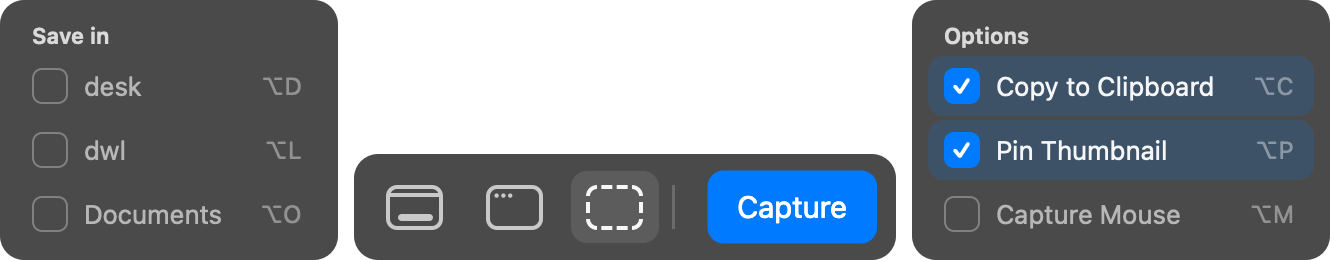
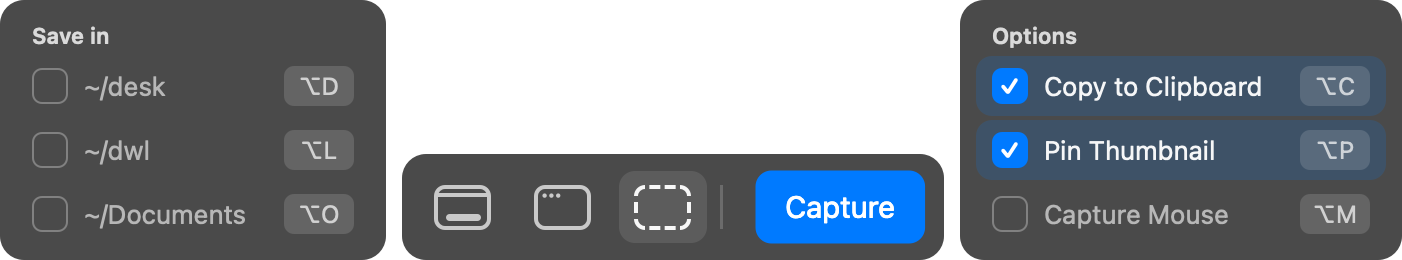
screenshot: folders by full path, shortcuts on light key caps
Save in lists each folder by its path from home (~/desk) instead of its
name, and every ⌥ shortcut sits on a small light cap of one width so
they line up.

diff --git a/screenshot/Sources/Screenshot/Bar.swift b/screenshot/Sources/Screenshot/Bar.swift
@@ -283,7 +283,7 @@ final class Section: NSPanel {
     static func saveIn() -> Section {
         Section("Save in", growsLeft: true) {
             zip(["D", "L", "O"], Settings.standardFolders).map { key, f in
-                Item(key: key, title: f.0, on: Settings.folders.contains { $0.path == f.1.path }) { Settings.toggle(folder: f.1) }
+                Item(key: key, title: (f.1.path as NSString).abbreviatingWithTildeInPath, on: Settings.folders.contains { $0.path == f.1.path }) { Settings.toggle(folder: f.1) }
             }
         }
     }
@@ -418,13 +418,14 @@ private final class StripKey: NSView {
     private static let keyFont = NSFont.systemFont(ofSize: 12)
     private static let tick = NSFont.systemFont(ofSize: 11, weight: .bold)
     private var chord: String { "⌥" + item.key }
+    /// One width for every cap, the widest letter's, so they line up.
+    private static let capWidth = ceil(("⌥M" as NSString).size(withAttributes: [.font: keyFont]).width) + 12
 
     init(_ item: Section.Item, flip: @escaping () -> Void) {
         self.item = item
         self.flip = flip
         let text = (item.title as NSString).size(withAttributes: [.font: StripKey.font]).width
-        let key = ("⌥" + item.key as NSString).size(withAttributes: [.font: StripKey.keyFont]).width
-        super.init(frame: CGRect(x: 0, y: 0, width: 34 + ceil(text) + 18 + ceil(key) + 10, height: 30))
+        super.init(frame: CGRect(x: 0, y: 0, width: 34 + ceil(text) + 18 + StripKey.capWidth + 8, height: 30))
     }
     required init?(coder: NSCoder) { nil }
     override func acceptsFirstMouse(for event: NSEvent?) -> Bool { true }
@@ -454,8 +455,13 @@ private final class StripKey: NSView {
         if on { put("✓", [.font: StripKey.tick, .foregroundColor: NSColor.white], in: box) }
         put(item.title, [.font: StripKey.font,
                          .foregroundColor: NSColor.labelColor.withAlphaComponent(on ? 0.95 : 0.6)], x: 34, in: bounds)
-        put(chord, [.font: StripKey.keyFont, .foregroundColor: NSColor.labelColor.withAlphaComponent(0.4)],
-            right: bounds.maxX - 10, in: bounds)
+        // The shortcut on a small light key cap.
+        let attrs: [NSAttributedString.Key: Any] = [.font: StripKey.keyFont, .foregroundColor: NSColor.labelColor.withAlphaComponent(0.7)]
+        let w = StripKey.capWidth
+        let cap = CGRect(x: bounds.maxX - 8 - w, y: (bounds.height - 20) / 2, width: w, height: 20)
+        NSColor.labelColor.withAlphaComponent(0.14).setFill()
+        NSBezierPath(roundedRect: cap, xRadius: 5, yRadius: 5).fill()
+        put(chord, attrs, in: cap)
     }
 }
 

diff --git a/screenshot/README.md b/screenshot/README.md
@@ -31,7 +31,7 @@ Hovering a button names its mode, with none of a tooltip's delay:
   shows only its name and opens when hovered; a click, or ⌥ and the letter shown on its row
   (⌥D, ⌥L, ⌥O, ⌥C, ⌥P, ⌥M), flips one.
 
-  ![Both groups open: each setting on a row with a tick box and its ⌥ shortcut grayed on the right, the ones that are on ticked in blue](docs/bar-settings.png)
+  ![Both groups open: each setting on a row with a tick box, the folders by their full path, and its ⌥ shortcut on a light key cap on the right, the ones that are on ticked in blue](docs/bar-settings.png)
 
 - **After the shot.** A thumbnail sits in the corner for eight seconds: a click pins it, a drag
   takes the file with it.
